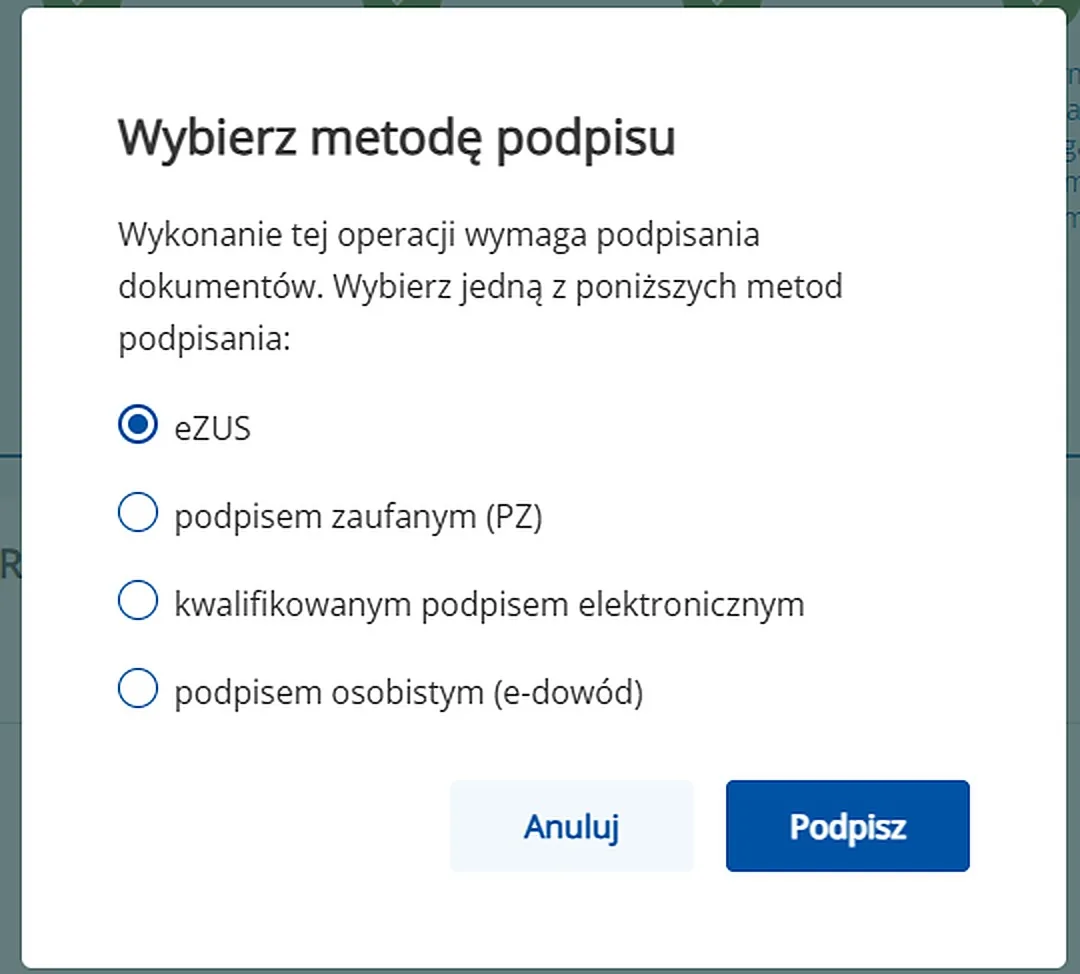
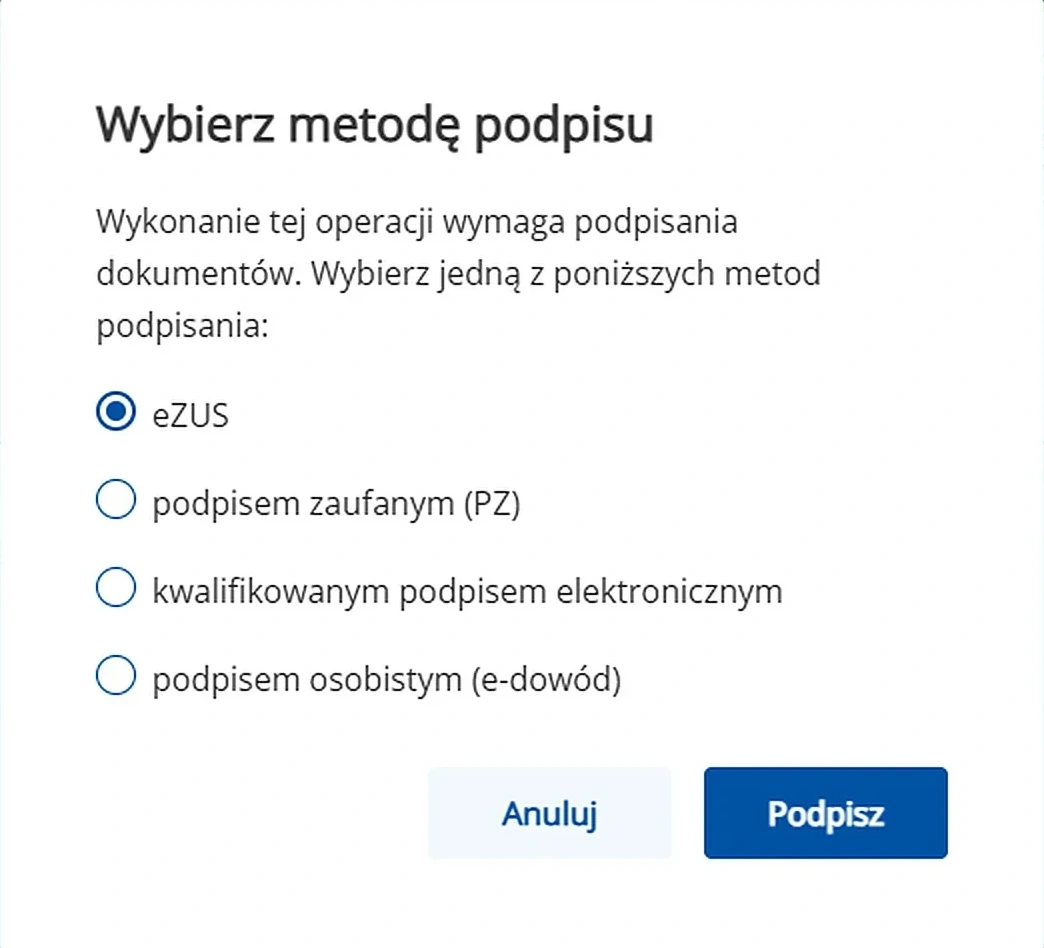
5.20: подпись – обрезана серая полоса слева, картинка по белому полю

diff --git a/zus-kanikuly/instrukcja.html b/zus-kanikuly/instrukcja.html
@@ -282,51 +282,51 @@ section.step,section.step.pre{scroll-margin-top:120px}
 
 <section class="step pre" id="login-ezus" data-id="login-ezus" data-r="first repeat">
   <div class="num" aria-hidden="true">0</div>
-  <div class="body"><h2>Вход в&nbsp;eZUS</h2><p class="screen">Экран в&nbsp;eZUS: <span lang="pl">«Zaloguj do PUE/eZUS»</span></p><p class="lead">Открываем <a href="https://www.zus.pl/" target="_blank" rel="noopener">zus.pl</a>&nbsp;– дальше все экраны внутри кабинета.</p><ol class="do"><li>На&nbsp;zus.pl нажать <span lang="pl">«Zaloguj do&nbsp;PUE/eZUS»</span>.</li><li>Откроется страница входа: слева поля <span lang="pl">«Login»</span> и&nbsp;<span lang="pl">«Hasło»</span>, справа QR через <span lang="pl">«Aplikacja mobilna ZUS»</span>, внизу ссылка <b>login.gov.pl</b>.</li><li>Через login.gov.pl выбрать способ: <span lang="pl">«Profil zaufany»</span>, банк, mObywatel или e-Dowód.</li></ol><figure class="shot"><img src="img/login-ezus-0.webp?v=5.11" alt="Вход в&nbsp;eZUS&nbsp;– экран 1" loading="lazy"><figcaption><b>Шаг 0.1:</b> форма <span lang="pl">«Zaloguj się do&nbsp;eZUS»</span>: слева поля <span lang="pl">«Login»</span> и&nbsp;<span lang="pl">«Hasło»</span>, справа&nbsp;– QR через <span lang="pl">«Aplikacja mobilna ZUS»</span> и&nbsp;ссылка <span lang="pl">«login.gov.pl»</span>.</figcaption></figure><figure class="shot"><img src="img/login-ezus-1.webp?v=5.11" alt="Вход в&nbsp;eZUS&nbsp;– экран 2" loading="lazy"><figcaption><b>Шаг 0.2:</b> выбор способа входа (gov.pl): <span lang="pl">«Profil zaufany»</span>, ниже mObywatel (<span lang="pl">«Polecany»</span>), банковский вход, <span lang="pl">«E-dowód»</span> и&nbsp;eID (для граждан ЕС со&nbsp;своим eID).</figcaption></figure><figure class="shot"><img src="img/wniosek-catalog-0.webp?v=5.11" alt="Каталог услуг eZUS с&nbsp;пунктом Wakacje składkowe" loading="lazy"><figcaption><b>Шаг 0.3:</b> в&nbsp;кабинете открыть <span lang="pl">«Katalog usług»</span> и&nbsp;найти <span lang="pl">«Wakacje składkowe»</span>&nbsp;– это и&nbsp;есть заявление RWS.</figcaption></figure></div>
+  <div class="body"><h2>Вход в&nbsp;eZUS</h2><p class="screen">Экран в&nbsp;eZUS: <span lang="pl">«Zaloguj do PUE/eZUS»</span></p><p class="lead">Открываем <a href="https://www.zus.pl/" target="_blank" rel="noopener">zus.pl</a>&nbsp;– дальше все экраны внутри кабинета.</p><ol class="do"><li>На&nbsp;zus.pl нажать <span lang="pl">«Zaloguj do&nbsp;PUE/eZUS»</span>.</li><li>Откроется страница входа: слева поля <span lang="pl">«Login»</span> и&nbsp;<span lang="pl">«Hasło»</span>, справа QR через <span lang="pl">«Aplikacja mobilna ZUS»</span>, внизу ссылка <b>login.gov.pl</b>.</li><li>Через login.gov.pl выбрать способ: <span lang="pl">«Profil zaufany»</span>, банк, mObywatel или e-Dowód.</li></ol><figure class="shot"><img src="img/login-ezus-0.webp?v=5.20" alt="Вход в&nbsp;eZUS&nbsp;– экран 1" loading="lazy"><figcaption><b>Шаг 0.1:</b> форма <span lang="pl">«Zaloguj się do&nbsp;eZUS»</span>: слева поля <span lang="pl">«Login»</span> и&nbsp;<span lang="pl">«Hasło»</span>, справа&nbsp;– QR через <span lang="pl">«Aplikacja mobilna ZUS»</span> и&nbsp;ссылка <span lang="pl">«login.gov.pl»</span>.</figcaption></figure><figure class="shot"><img src="img/login-ezus-1.webp?v=5.20" alt="Вход в&nbsp;eZUS&nbsp;– экран 2" loading="lazy"><figcaption><b>Шаг 0.2:</b> выбор способа входа (gov.pl): <span lang="pl">«Profil zaufany»</span>, ниже mObywatel (<span lang="pl">«Polecany»</span>), банковский вход, <span lang="pl">«E-dowód»</span> и&nbsp;eID (для граждан ЕС со&nbsp;своим eID).</figcaption></figure><figure class="shot"><img src="img/wniosek-catalog-0.webp?v=5.20" alt="Каталог услуг eZUS с&nbsp;пунктом Wakacje składkowe" loading="lazy"><figcaption><b>Шаг 0.3:</b> в&nbsp;кабинете открыть <span lang="pl">«Katalog usług»</span> и&nbsp;найти <span lang="pl">«Wakacje składkowe»</span>&nbsp;– это и&nbsp;есть заявление RWS.</figcaption></figure></div>
 </section><section class="step" id="wniosek" data-id="wniosek" data-r="first repeat">
   <div class="num" aria-hidden="true">1</div>
-  <div class="body"><h2>Общие данные и&nbsp;вид заявления</h2><p class="screen">Экран в&nbsp;eZUS: <span lang="pl">«Informacje ogólne i wybór rodzaju wniosku»</span></p><p class="lead">Здесь выбираем, что именно подаем&nbsp;– RWS.</p><ol class="do"><li>В&nbsp;каталоге открыть карточку <span lang="pl">«Wakacje składkowe»</span> и&nbsp;нажать <span lang="pl">«Przejdź do usługi»</span>.</li><li>Rodzaj wniosku: <span lang="pl">«Wniosek»</span>.</li><li>Нажать <span lang="pl">«Dalej»</span>.</li></ol><figure class="shot"><img src="img/wniosek-1.webp?v=5.11" alt="Карточка услуги Wakacje składkowe с&nbsp;кнопкой Przejdź do usługi" loading="lazy"><figcaption><b>Шаг 1.1:</b> карточка услуги&nbsp;– здесь прямо написано, что подаём: wzór <b>RWS</b> (wniosek o zwolnienie z&nbsp;obowiązku opłacenia składek za wskazany miesiąc). Жмём <span lang="pl">«Przejdź do usługi»</span>.</figcaption></figure><figure class="shot"><img src="img/wniosek-0.webp?v=5.11" alt="Форма заявления: выбор вида заявления&nbsp;– Rodzaj wniosku" loading="lazy"><figcaption><b>Шаг 1.2:</b> уже в&nbsp;форме&nbsp;– <span lang="pl">«Rodzaj wniosku»</span>: выбираем <span lang="pl">«Wniosek»</span> и&nbsp;жмем <span lang="pl">«Dalej»</span> (год здесь не&nbsp;выбирается).</figcaption></figure></div>
+  <div class="body"><h2>Общие данные и&nbsp;вид заявления</h2><p class="screen">Экран в&nbsp;eZUS: <span lang="pl">«Informacje ogólne i wybór rodzaju wniosku»</span></p><p class="lead">Здесь выбираем, что именно подаем&nbsp;– RWS.</p><ol class="do"><li>В&nbsp;каталоге открыть карточку <span lang="pl">«Wakacje składkowe»</span> и&nbsp;нажать <span lang="pl">«Przejdź do usługi»</span>.</li><li>Rodzaj wniosku: <span lang="pl">«Wniosek»</span>.</li><li>Нажать <span lang="pl">«Dalej»</span>.</li></ol><figure class="shot"><img src="img/wniosek-1.webp?v=5.20" alt="Карточка услуги Wakacje składkowe с&nbsp;кнопкой Przejdź do usługi" loading="lazy"><figcaption><b>Шаг 1.1:</b> карточка услуги&nbsp;– здесь прямо написано, что подаём: wzór <b>RWS</b> (wniosek o zwolnienie z&nbsp;obowiązku opłacenia składek za wskazany miesiąc). Жмём <span lang="pl">«Przejdź do usługi»</span>.</figcaption></figure><figure class="shot"><img src="img/wniosek-0.webp?v=5.20" alt="Форма заявления: выбор вида заявления&nbsp;– Rodzaj wniosku" loading="lazy"><figcaption><b>Шаг 1.2:</b> уже в&nbsp;форме&nbsp;– <span lang="pl">«Rodzaj wniosku»</span>: выбираем <span lang="pl">«Wniosek»</span> и&nbsp;жмем <span lang="pl">«Dalej»</span> (год здесь не&nbsp;выбирается).</figcaption></figure></div>
 </section><section class="step" id="platnik" data-id="platnik" data-r="first repeat">
   <div class="num" aria-hidden="true">2</div>
-  <div class="body"><h2>Данные плательщика</h2><p class="screen">Экран в&nbsp;eZUS: <span lang="pl">«Dane płatnika»</span></p><p class="lead">Данные подставятся сами&nbsp;– их нужно только сверить.</p><ol class="do"><li>Сверить NIP, PESEL, имя и&nbsp;фамилию&nbsp;– или ввести NIP, имя либо фамилию вручную.</li><li>Телефон&nbsp;– необязательное поле: можно оставить пустым.</li><li>Нажать <span lang="pl">«Dalej»</span>.</li></ol><figure class="shot"><img src="img/platnik-0.webp?v=5.11" alt="Данные плательщика&nbsp;– экран 1" loading="lazy"><figcaption><b>Шаг 2:</b> NIP, PESEL, имя и&nbsp;фамилия подставятся сами&nbsp;– сверяем с&nbsp;документами.</figcaption></figure></div>
+  <div class="body"><h2>Данные плательщика</h2><p class="screen">Экран в&nbsp;eZUS: <span lang="pl">«Dane płatnika»</span></p><p class="lead">Данные подставятся сами&nbsp;– их нужно только сверить.</p><ol class="do"><li>Сверить NIP, PESEL, имя и&nbsp;фамилию&nbsp;– или ввести NIP, имя либо фамилию вручную.</li><li>Телефон&nbsp;– необязательное поле: можно оставить пустым.</li><li>Нажать <span lang="pl">«Dalej»</span>.</li></ol><figure class="shot"><img src="img/platnik-0.webp?v=5.20" alt="Данные плательщика&nbsp;– экран 1" loading="lazy"><figcaption><b>Шаг 2:</b> NIP, PESEL, имя и&nbsp;фамилия подставятся сами&nbsp;– сверяем с&nbsp;документами.</figcaption></figure></div>
 </section><section class="step" id="miesiac" data-id="miesiac" data-r="first repeat">
   <div class="num" aria-hidden="true">3</div>
-  <div class="body"><h2>Месяц заявления</h2><p class="screen">Экран в&nbsp;eZUS: <span lang="pl">«Treść wniosku»</span></p><p class="lead">Поле месяца уже заполнено&nbsp;– сверяем с&nbsp;тем месяцем, за&nbsp;который просим каникулы.</p><ol class="do"><li>Сверить месяц и&nbsp;год.</li><li>Нажать <span lang="pl">«Dalej»</span>.</li></ol><figure class="shot"><img src="img/miesiac-0.webp?v=5.11" alt="Месяц заявления&nbsp;– экран 1" loading="lazy"><figcaption><b>Шаг 3:</b> поле месяца уже заполнено&nbsp;– сверяем месяц и&nbsp;год, жмем <span lang="pl">«Dalej»</span>.</figcaption></figure></div>
+  <div class="body"><h2>Месяц заявления</h2><p class="screen">Экран в&nbsp;eZUS: <span lang="pl">«Treść wniosku»</span></p><p class="lead">Поле месяца уже заполнено&nbsp;– сверяем с&nbsp;тем месяцем, за&nbsp;который просим каникулы.</p><ol class="do"><li>Сверить месяц и&nbsp;год.</li><li>Нажать <span lang="pl">«Dalej»</span>.</li></ol><figure class="shot"><img src="img/miesiac-0.webp?v=5.20" alt="Месяц заявления&nbsp;– экран 1" loading="lazy"><figcaption><b>Шаг 3:</b> поле месяца уже заполнено&nbsp;– сверяем месяц и&nbsp;год, жмем <span lang="pl">«Dalej»</span>.</figcaption></figure></div>
 </section><section class="step" id="oswiadczenia" data-id="oswiadczenia" data-r="first repeat">
   <div class="num" aria-hidden="true">4</div>
-  <div class="body"><h2>Заявления-подтверждения</h2><p class="screen">Экран в&nbsp;eZUS: <span lang="pl">«Oświadczenia»</span></p><p class="lead">Три утверждения. Пункты&nbsp;1 и&nbsp;2&nbsp;– только текст, выбирать там нечего: это заявления о&nbsp;доходе и&nbsp;о&nbsp;работе на&nbsp;бывшего работодателя. Выбор есть только в&nbsp;пункте&nbsp;3&nbsp;– про помощь de&nbsp;minimis.</p><ol class="do"><li>Пункт&nbsp;3, <span lang="pl">«W&nbsp;okresie minionych 3&nbsp;lat»</span>: отметить, пользовались&nbsp;ли Вы помощью de&nbsp;minimis.</li><li>Если <span lang="pl">«korzystałem»</span>&nbsp;– ниже в&nbsp;блоке подтверждения выбрать <span lang="pl">«oświadczenie»</span> и&nbsp;вписать общую сумму помощи в&nbsp;евро.</li><li>Нажать <span lang="pl">«Dalej»</span>.</li></ol><div class="note"><p><b>Откуда брать сумму в евро.</b> Это вся помощь de&nbsp;minimis, которую Вы получили за&nbsp;последние 3&nbsp;года, – она видна в&nbsp;отчёте SUDOP.</p><p>Поиск по&nbsp;NIP: <a href="https://sudop.uokik.gov.pl/search/aidBeneficiary" target="_blank" rel="noopener">sudop.uokik.gov.pl/search/aidBeneficiary</a> – ввести свой NIP, нажать <span lang="pl">«Pobierz nazwę»</span>, отметить <span lang="pl">«tylko de&nbsp;minimis»</span> и&nbsp;период 3&nbsp;года, затем <span lang="pl">«Wyszukaj według wybranych kryteriów»</span>. В&nbsp;отчёте берём итоговую сумму в&nbsp;евро.</p><p>Пошагово со&nbsp;скриншотами – раздел <a href="#sudop-1">«Справка из&nbsp;SUDOP»</a> внизу страницы.</p></div><figure class="shot"><img src="img/oswiadczenia-0.webp?v=5.11" alt="Заявления-подтверждения&nbsp;– экран 1" loading="lazy"><figcaption><b>Шаг 4:</b> пункты 1 и&nbsp;2&nbsp;– текст без выбора; в&nbsp;пункте 3 отмечаем помощь de&nbsp;minimis и&nbsp;вписываем её сумму в&nbsp;евро.</figcaption></figure></div>
+  <div class="body"><h2>Заявления-подтверждения</h2><p class="screen">Экран в&nbsp;eZUS: <span lang="pl">«Oświadczenia»</span></p><p class="lead">Три утверждения. Пункты&nbsp;1 и&nbsp;2&nbsp;– только текст, выбирать там нечего: это заявления о&nbsp;доходе и&nbsp;о&nbsp;работе на&nbsp;бывшего работодателя. Выбор есть только в&nbsp;пункте&nbsp;3&nbsp;– про помощь de&nbsp;minimis.</p><ol class="do"><li>Пункт&nbsp;3, <span lang="pl">«W&nbsp;okresie minionych 3&nbsp;lat»</span>: отметить, пользовались&nbsp;ли Вы помощью de&nbsp;minimis.</li><li>Если <span lang="pl">«korzystałem»</span>&nbsp;– ниже в&nbsp;блоке подтверждения выбрать <span lang="pl">«oświadczenie»</span> и&nbsp;вписать общую сумму помощи в&nbsp;евро.</li><li>Нажать <span lang="pl">«Dalej»</span>.</li></ol><div class="note"><p><b>Откуда брать сумму в евро.</b> Это вся помощь de&nbsp;minimis, которую Вы получили за&nbsp;последние 3&nbsp;года, – она видна в&nbsp;отчёте SUDOP.</p><p>Поиск по&nbsp;NIP: <a href="https://sudop.uokik.gov.pl/search/aidBeneficiary" target="_blank" rel="noopener">sudop.uokik.gov.pl/search/aidBeneficiary</a> – ввести свой NIP, нажать <span lang="pl">«Pobierz nazwę»</span>, отметить <span lang="pl">«tylko de&nbsp;minimis»</span> и&nbsp;период 3&nbsp;года, затем <span lang="pl">«Wyszukaj według wybranych kryteriów»</span>. В&nbsp;отчёте берём итоговую сумму в&nbsp;евро.</p><p>Пошагово со&nbsp;скриншотами – раздел <a href="#sudop-1">«Справка из&nbsp;SUDOP»</a> внизу страницы.</p></div><figure class="shot"><img src="img/oswiadczenia-0.webp?v=5.20" alt="Заявления-подтверждения&nbsp;– экран 1" loading="lazy"><figcaption><b>Шаг 4:</b> пункты 1 и&nbsp;2&nbsp;– текст без выбора; в&nbsp;пункте 3 отмечаем помощь de&nbsp;minimis и&nbsp;вписываем её сумму в&nbsp;евро.</figcaption></figure></div>
 </section><section class="step" id="dm1" data-id="dm1" data-r="first repeat">
   <div class="num" aria-hidden="true">5</div>
-  <div class="body"><h2>de minimis, часть 1: размер субъекта и&nbsp;PKD</h2><p class="screen">Экран в&nbsp;eZUS: <span lang="pl">«Wielkość podmiotu i klasa działalności»</span></p><p class="lead">Здесь только размер субъекта и&nbsp;код деятельности.</p><ol class="do"><li>Wielkość podmiotu: <span lang="pl">«mikroprzedsiębiorca»</span>, если у&nbsp;вас микропредприятие.</li></ol><div class="note" style="border-left:3px solid #C69B3C"><p><b>Откуда сумма de&nbsp;minimis:</b> её берут из&nbsp;справки SUDOP&nbsp;– пошагово это раздел <a href="#sudop-1">Д1</a> ниже. Проверить свою помощь напрямую: <a href="https://sudop.uokik.gov.pl/search/aidBeneficiary" target="_blank" rel="noopener">sudop.uokik.gov.pl/search/aidBeneficiary</a>.</p></div><ol class="do" start="2"><li>Klasa działalności: выбрать год и&nbsp;вписать код PKD без точек&nbsp;– например 6210B. Если помощь de&nbsp;minimis уже получали, здесь&nbsp;же вписываем сумму из&nbsp;справки&nbsp;– в&nbsp;евро, ровно как в&nbsp;документе (например, 200,47).</li><li><span lang="pl">«Dalej»</span>.</li></ol><figure class="shot"><img src="img/dm1-0.webp?v=5.11" alt="de minimis, часть 1: размер субъекта и&nbsp;PKD&nbsp;– экран 1" loading="lazy"><figcaption><b>Шаг 5.1:</b> <span lang="pl">«Wielkość podmiotu»</span>&nbsp;– выбираем <span lang="pl">«mikroprzedsiębiorca»</span>.</figcaption></figure><figure class="shot"><img src="img/dm1-1.webp?v=5.11" alt="de minimis, часть 1: размер субъекта и&nbsp;PKD&nbsp;– экран 2" loading="lazy"><figcaption><b>Шаг 5.2:</b> <span lang="pl">«Klasa działalności»</span>&nbsp;– год и&nbsp;код PKD без точек, например 6210B.</figcaption></figure></div>
+  <div class="body"><h2>de minimis, часть 1: размер субъекта и&nbsp;PKD</h2><p class="screen">Экран в&nbsp;eZUS: <span lang="pl">«Wielkość podmiotu i klasa działalności»</span></p><p class="lead">Здесь только размер субъекта и&nbsp;код деятельности.</p><ol class="do"><li>Wielkość podmiotu: <span lang="pl">«mikroprzedsiębiorca»</span>, если у&nbsp;вас микропредприятие.</li></ol><div class="note" style="border-left:3px solid #C69B3C"><p><b>Откуда сумма de&nbsp;minimis:</b> её берут из&nbsp;справки SUDOP&nbsp;– пошагово это раздел <a href="#sudop-1">Д1</a> ниже. Проверить свою помощь напрямую: <a href="https://sudop.uokik.gov.pl/search/aidBeneficiary" target="_blank" rel="noopener">sudop.uokik.gov.pl/search/aidBeneficiary</a>.</p></div><ol class="do" start="2"><li>Klasa działalności: выбрать год и&nbsp;вписать код PKD без точек&nbsp;– например 6210B. Если помощь de&nbsp;minimis уже получали, здесь&nbsp;же вписываем сумму из&nbsp;справки&nbsp;– в&nbsp;евро, ровно как в&nbsp;документе (например, 200,47).</li><li><span lang="pl">«Dalej»</span>.</li></ol><figure class="shot"><img src="img/dm1-0.webp?v=5.20" alt="de minimis, часть 1: размер субъекта и&nbsp;PKD&nbsp;– экран 1" loading="lazy"><figcaption><b>Шаг 5.1:</b> <span lang="pl">«Wielkość podmiotu»</span>&nbsp;– выбираем <span lang="pl">«mikroprzedsiębiorca»</span>.</figcaption></figure><figure class="shot"><img src="img/dm1-1.webp?v=5.20" alt="de minimis, часть 1: размер субъекта и&nbsp;PKD&nbsp;– экран 2" loading="lazy"><figcaption><b>Шаг 5.2:</b> <span lang="pl">«Klasa działalności»</span>&nbsp;– год и&nbsp;код PKD без точек, например 6210B.</figcaption></figure></div>
 </section><section class="step" id="dm2" data-id="dm2" data-r="first repeat">
   <div class="num" aria-hidden="true">6</div>
-  <div class="body"><h2>de minimis, часть 2: связи с&nbsp;другими предпринимателями</h2><p class="screen">Экран в&nbsp;eZUS: <span lang="pl">«Powiązania z innymi przedsiębiorcami»</span></p><p class="lead">Существует ли связь между субъектом и&nbsp;другими предпринимателями, заключающаяся в&nbsp;том, что:</p><ol class="do"><li><span lang="pl">a. jeden przedsiębiorca posiada większość praw głosu akcjonariuszy lub wspólników drugiego przedsiębiorcy</span>&nbsp;– один предприниматель имеет большинство прав голоса акционеров или участников другого предпринимателя.</li><li><span lang="pl">b. jeden przedsiębiorca ma prawo wyznaczyć lub odwołać większość członków organu zarządzającego lub nadzorczego innego przedsiębiorcy</span>&nbsp;– один предприниматель имеет право назначить или отозвать большинство членов руководящего или надзорного органа другого предпринимателя.</li><li><span lang="pl">c. jeden przedsiębiorca ma prawo wywierać dominujący wpływ na innego przedsiębiorcę zgodnie z umową lub zgodnie z jego dokumentami założycielskimi</span>&nbsp;– один предприниматель имеет право оказывать доминирующее влияние на другого предпринимателя в соответствии с договором с этим предпринимателем или в соответствии с его учредительными документами.</li><li><span lang="pl">d. jeden przedsiębiorca, będąc akcjonariuszem lub wspólnikiem innego przedsiębiorcy lub jego członkiem, zgodnie z porozumieniem z innymi akcjonariuszami, wspólnikami lub członkami, samodzielnie kontroluje większość praw głosu</span>&nbsp;– один предприниматель, который является акционером, партнером или участником другого предпринимателя, в соответствии с соглашением с другими акционерами, партнерами или участниками этого предпринимателя самостоятельно контролирует большинство прав голоса у этого предпринимателя.</li><li><span lang="pl">e. przedsiębiorca pozostaje w jakimkolwiek ze stosunków opisanych powyżej poprzez jednego innego przedsiębiorcę lub kilku innych przedsiębiorców</span>&nbsp;– предприниматель остается в любых отношениях, описанных выше, через одного иного предпринимателя или нескольких других предпринимателей.</li><li>Выберите <span lang="pl">«NIE»</span> или <span lang="pl">«TAK»</span> в&nbsp;каждом пункте a–e&nbsp;– в&nbsp;зависимости от&nbsp;Вашей ситуации (если связей нет, везде <span lang="pl">«NIE»</span>). Затем нажимаем <span lang="pl">«Dalej»</span>.</li></ol><figure class="shot"><img src="img/dm2-0.webp?v=5.11" alt="de minimis, часть 2: связи с&nbsp;другими предпринимателями&nbsp;– экран 1" loading="lazy"><figcaption><b>Шаг 6:</b> <span lang="pl">«Powiązania z innymi przedsiębiorcami»</span>&nbsp;– пять пунктов a–e, на&nbsp;каждый ответ только <span lang="pl">«TAK»</span> или <span lang="pl">«NIE»</span>.</figcaption></figure></div>
+  <div class="body"><h2>de minimis, часть 2: связи с&nbsp;другими предпринимателями</h2><p class="screen">Экран в&nbsp;eZUS: <span lang="pl">«Powiązania z innymi przedsiębiorcami»</span></p><p class="lead">Существует ли связь между субъектом и&nbsp;другими предпринимателями, заключающаяся в&nbsp;том, что:</p><ol class="do"><li><span lang="pl">a. jeden przedsiębiorca posiada większość praw głosu akcjonariuszy lub wspólników drugiego przedsiębiorcy</span>&nbsp;– один предприниматель имеет большинство прав голоса акционеров или участников другого предпринимателя.</li><li><span lang="pl">b. jeden przedsiębiorca ma prawo wyznaczyć lub odwołać większość członków organu zarządzającego lub nadzorczego innego przedsiębiorcy</span>&nbsp;– один предприниматель имеет право назначить или отозвать большинство членов руководящего или надзорного органа другого предпринимателя.</li><li><span lang="pl">c. jeden przedsiębiorca ma prawo wywierać dominujący wpływ na innego przedsiębiorcę zgodnie z umową lub zgodnie z jego dokumentami założycielskimi</span>&nbsp;– один предприниматель имеет право оказывать доминирующее влияние на другого предпринимателя в соответствии с договором с этим предпринимателем или в соответствии с его учредительными документами.</li><li><span lang="pl">d. jeden przedsiębiorca, będąc akcjonariuszem lub wspólnikiem innego przedsiębiorcy lub jego członkiem, zgodnie z porozumieniem z innymi akcjonariuszami, wspólnikami lub członkami, samodzielnie kontroluje większość praw głosu</span>&nbsp;– один предприниматель, который является акционером, партнером или участником другого предпринимателя, в соответствии с соглашением с другими акционерами, партнерами или участниками этого предпринимателя самостоятельно контролирует большинство прав голоса у этого предпринимателя.</li><li><span lang="pl">e. przedsiębiorca pozostaje w jakimkolwiek ze stosunków opisanych powyżej poprzez jednego innego przedsiębiorcę lub kilku innych przedsiębiorców</span>&nbsp;– предприниматель остается в любых отношениях, описанных выше, через одного иного предпринимателя или нескольких других предпринимателей.</li><li>Выберите <span lang="pl">«NIE»</span> или <span lang="pl">«TAK»</span> в&nbsp;каждом пункте a–e&nbsp;– в&nbsp;зависимости от&nbsp;Вашей ситуации (если связей нет, везде <span lang="pl">«NIE»</span>). Затем нажимаем <span lang="pl">«Dalej»</span>.</li></ol><figure class="shot"><img src="img/dm2-0.webp?v=5.20" alt="de minimis, часть 2: связи с&nbsp;другими предпринимателями&nbsp;– экран 1" loading="lazy"><figcaption><b>Шаг 6:</b> <span lang="pl">«Powiązania z innymi przedsiębiorcami»</span>&nbsp;– пять пунктов a–e, на&nbsp;каждый ответ только <span lang="pl">«TAK»</span> или <span lang="pl">«NIE»</span>.</figcaption></figure></div>
 </section><section class="step" id="dm3" data-id="dm3" data-r="first repeat">
   <div class="num" aria-hidden="true">7</div>
-  <div class="body"><h2>de minimis, часть 3: как возникла фирма</h2><p class="screen">Экран в&nbsp;eZUS: <span lang="pl">«Informacje o powstaniu podmiotu»</span></p><p class="lead">Четыре вопроса о&nbsp;том, как появилась ваша фирма.</p><ol class="do"><li><span lang="pl">a. powstał wskutek połączenia się innych przedsiębiorców</span>&nbsp;– появилась в&nbsp;результате слияния.</li><li><span lang="pl">b. przejął innego przedsiębiorcę</span>&nbsp;– принятие на&nbsp;(включение в&nbsp;) себя другого предпринимателя.</li><li><span lang="pl">c. powstał w wyniku podziału innego przedsiębiorcy</span>&nbsp;– возник в&nbsp;результате раздела.</li><li><span lang="pl">d. powstał w wyniku przekształcenia przedsiębiorcy</span>&nbsp;– возник в&nbsp;результате преобразования.</li><li>Выберите <span lang="pl">«NIE»</span> или <span lang="pl">«TAK»</span> – в&nbsp;зависимости от&nbsp;Вашей ситуации. Затем нажимаем <span lang="pl">«Dalej»</span>. У&nbsp;большинства здесь <span lang="pl">«NIE»</span>.</li></ol><figure class="shot"><img src="img/dm3-0.webp?v=5.11" alt="de minimis, часть 3: как возникла фирма&nbsp;– экран 1" loading="lazy"><figcaption><b>Шаг 7:</b> <span lang="pl">«Informacje o powstaniu podmiotu»</span>&nbsp;– как возникла фирма, четыре пункта a–d.</figcaption></figure></div>
+  <div class="body"><h2>de minimis, часть 3: как возникла фирма</h2><p class="screen">Экран в&nbsp;eZUS: <span lang="pl">«Informacje o powstaniu podmiotu»</span></p><p class="lead">Четыре вопроса о&nbsp;том, как появилась ваша фирма.</p><ol class="do"><li><span lang="pl">a. powstał wskutek połączenia się innych przedsiębiorców</span>&nbsp;– появилась в&nbsp;результате слияния.</li><li><span lang="pl">b. przejął innego przedsiębiorcę</span>&nbsp;– принятие на&nbsp;(включение в&nbsp;) себя другого предпринимателя.</li><li><span lang="pl">c. powstał w wyniku podziału innego przedsiębiorcy</span>&nbsp;– возник в&nbsp;результате раздела.</li><li><span lang="pl">d. powstał w wyniku przekształcenia przedsiębiorcy</span>&nbsp;– возник в&nbsp;результате преобразования.</li><li>Выберите <span lang="pl">«NIE»</span> или <span lang="pl">«TAK»</span> – в&nbsp;зависимости от&nbsp;Вашей ситуации. Затем нажимаем <span lang="pl">«Dalej»</span>. У&nbsp;большинства здесь <span lang="pl">«NIE»</span>.</li></ol><figure class="shot"><img src="img/dm3-0.webp?v=5.20" alt="de minimis, часть 3: как возникла фирма&nbsp;– экран 1" loading="lazy"><figcaption><b>Шаг 7:</b> <span lang="pl">«Informacje o powstaniu podmiotu»</span>&nbsp;– как возникла фирма, четыре пункта a–d.</figcaption></figure></div>
 </section><section class="step" id="dm4" data-id="dm4" data-r="first repeat">
   <div class="num" aria-hidden="true">8</div>
-  <div class="body"><h2>de minimis, часть 4: секторы деятельности</h2><p class="screen">Экран в&nbsp;eZUS: <span lang="pl">«Działalność gospodarcza»</span>&nbsp;– хозяйственная деятельность</p><p class="lead">Осуществляет ли предприятие предпринимательскую деятельность:</p><ol class="do"><li><span lang="pl">a. w sektorze produkcji podstawowej produktów rybołówstwa i akwakultury</span>&nbsp;– в секторе производства основной продукции рыболовства и аквакультуры.</li><li><span lang="pl">b. w dziedzinie produkcji podstawowej produktów rolnych wymienionych w załączniku I do Traktatu o funkcjonowaniu Unii Europejskiej</span>&nbsp;– в области производства основной сельскохозяйственной продукции, перечисленной в&nbsp;приложении №1 к&nbsp;Договору о&nbsp;функционировании Европейского Союза (Traktat o&nbsp;funkcjonowaniu Unii Europejskiej).</li><li><span lang="pl">c. w dziedzinie przetwarzania i wprowadzania do obrotu produktów rolnych wymienionych w załączniku I do Traktatu o funkcjonowaniu Unii Europejskiej</span>&nbsp;– в области переработки и&nbsp;сбыта сельскохозяйственной продукции, перечисленной в&nbsp;приложении №1 к&nbsp;Договору о&nbsp;функционировании Европейского Союза (Traktat o&nbsp;funkcjonowaniu Unii Europejskiej).</li><li><span lang="pl">d. w dziedzinie przetwarzania i wprowadzania do obrotu produktów rybołówstwa i akwakultury</span>&nbsp;– в области обработки и&nbsp;сбыта продуктов рыболовства и&nbsp;аквакультуры.</li><li>Выберите <span lang="pl">«NIE»</span> или <span lang="pl">«TAK»</span> – в&nbsp;зависимости от&nbsp;Вашей ситуации. Затем нажимаем <span lang="pl">«Dalej»</span>. У&nbsp;большинства здесь <span lang="pl">«NIE»</span>.</li></ol><figure class="shot"><img src="img/dm4-0.webp?v=5.11" alt="de minimis, часть 4: секторы деятельности&nbsp;– экран 1" loading="lazy"><figcaption><b>Шаг 8:</b> <span lang="pl">«Działalność gospodarcza»</span>&nbsp;– четыре сектора a–d, на&nbsp;каждый <span lang="pl">«TAK»</span> или <span lang="pl">«NIE»</span>.</figcaption></figure></div>
+  <div class="body"><h2>de minimis, часть 4: секторы деятельности</h2><p class="screen">Экран в&nbsp;eZUS: <span lang="pl">«Działalność gospodarcza»</span>&nbsp;– хозяйственная деятельность</p><p class="lead">Осуществляет ли предприятие предпринимательскую деятельность:</p><ol class="do"><li><span lang="pl">a. w sektorze produkcji podstawowej produktów rybołówstwa i akwakultury</span>&nbsp;– в секторе производства основной продукции рыболовства и аквакультуры.</li><li><span lang="pl">b. w dziedzinie produkcji podstawowej produktów rolnych wymienionych w załączniku I do Traktatu o funkcjonowaniu Unii Europejskiej</span>&nbsp;– в области производства основной сельскохозяйственной продукции, перечисленной в&nbsp;приложении №1 к&nbsp;Договору о&nbsp;функционировании Европейского Союза (Traktat o&nbsp;funkcjonowaniu Unii Europejskiej).</li><li><span lang="pl">c. w dziedzinie przetwarzania i wprowadzania do obrotu produktów rolnych wymienionych w załączniku I do Traktatu o funkcjonowaniu Unii Europejskiej</span>&nbsp;– в области переработки и&nbsp;сбыта сельскохозяйственной продукции, перечисленной в&nbsp;приложении №1 к&nbsp;Договору о&nbsp;функционировании Европейского Союза (Traktat o&nbsp;funkcjonowaniu Unii Europejskiej).</li><li><span lang="pl">d. w dziedzinie przetwarzania i wprowadzania do obrotu produktów rybołówstwa i akwakultury</span>&nbsp;– в области обработки и&nbsp;сбыта продуктов рыболовства и&nbsp;аквакультуры.</li><li>Выберите <span lang="pl">«NIE»</span> или <span lang="pl">«TAK»</span> – в&nbsp;зависимости от&nbsp;Вашей ситуации. Затем нажимаем <span lang="pl">«Dalej»</span>. У&nbsp;большинства здесь <span lang="pl">«NIE»</span>.</li></ol><figure class="shot"><img src="img/dm4-0.webp?v=5.20" alt="de minimis, часть 4: секторы деятельности&nbsp;– экран 1" loading="lazy"><figcaption><b>Шаг 8:</b> <span lang="pl">«Działalność gospodarcza»</span>&nbsp;– четыре сектора a–d, на&nbsp;каждый <span lang="pl">«TAK»</span> или <span lang="pl">«NIE»</span>.</figcaption></figure></div>
 </section><section class="step" <section class="step" id="zalaczniki" data-id="zalaczniki" data-r="repeat">
   <div class="num" aria-hidden="true">9</div>
-  <div class="body"><h2>Приложения: засвядчэння, если выбирали их</h2><p class="screen">Экран в&nbsp;eZUS: <span lang="pl">«Załączniki»</span></p><p class="lead">Что прикладываем&nbsp;– зависит от&nbsp;шага&nbsp;4. Если там стояло <span lang="pl">«oświadczenie»</span>&nbsp;– список оставляем пустым и&nbsp;жмём <span lang="pl">«Dalej»</span>. Если <span lang="pl">«zaświadczenia»</span>&nbsp;– прикладываем сами засвядчэння: по&nbsp;файлу на&nbsp;каждую помощь de&nbsp;minimis. Отчёт из&nbsp;SUDOP сюда не&nbsp;годится: это только список сумм, а&nbsp;ZUS нужны засвядчэння от&nbsp;органов, которые давали помощь.</p><ol class="do"><li>На&nbsp;шаге&nbsp;4 выбрали <span lang="pl">«oświadczenie»</span>&nbsp;– ничего не&nbsp;загружаем, сразу <span lang="pl">«Dalej»</span>.</li><li>Выбрали <span lang="pl">«zaświadczenia»</span>&nbsp;– нажать на&nbsp;пунктирную зону загрузки.</li><li>Выбрать файл засвядчэння и&nbsp;нажать <span lang="pl">«Otwórz»</span>; повторить для каждой помощи.</li><li>Проверить имена файлов в&nbsp;списке и&nbsp;нажать <span lang="pl">«Dalej»</span>.</li></ol><div class="note" style="border-left:3px solid #C69B3C"><p><b>Где взять засвядчэння:</b> у&nbsp;органа, который дал помощь&nbsp;– urząd miasta или gminy, powiatowy urząd pracy и&nbsp;другие. Если бумаги под&nbsp;рукой нет, запросите дубликат в&nbsp;том же органе: отчёт SUDOP его не&nbsp;заменяет, там только суммы&nbsp;– они нужны, чтобы заполнить шаг&nbsp;5. Лимит eZUS&nbsp;– около 1&nbsp;МБ на&nbsp;файл и&nbsp;5&nbsp;МБ на&nbsp;всё заявление.</p></div><figure class="shot"><img src="img/zalaczniki-0.webp?v=5.11" alt="Приложения: зона загрузки файлов" loading="lazy"><figcaption><b>Шаг 9.1:</b> пунктирная зона загрузки&nbsp;– сюда добавляем файлы засвядчэнняў.</figcaption></figure><figure class="shot"><img src="img/zalaczniki-1.webp?v=5.11" alt="Приложения: выбор файла" loading="lazy"><figcaption><b>Шаг 9.2:</b> в&nbsp;диалоге открытия файла&nbsp;– папка <span lang="pl">«Pobrane»</span>, в&nbsp;ней файл засвядчэння; выбираем и&nbsp;подтверждаем.</figcaption></figure></div>
+  <div class="body"><h2>Приложения: засвядчэння, если выбирали их</h2><p class="screen">Экран в&nbsp;eZUS: <span lang="pl">«Załączniki»</span></p><p class="lead">Что прикладываем&nbsp;– зависит от&nbsp;шага&nbsp;4. Если там стояло <span lang="pl">«oświadczenie»</span>&nbsp;– список оставляем пустым и&nbsp;жмём <span lang="pl">«Dalej»</span>. Если <span lang="pl">«zaświadczenia»</span>&nbsp;– прикладываем сами засвядчэння: по&nbsp;файлу на&nbsp;каждую помощь de&nbsp;minimis. Отчёт из&nbsp;SUDOP сюда не&nbsp;годится: это только список сумм, а&nbsp;ZUS нужны засвядчэння от&nbsp;органов, которые давали помощь.</p><ol class="do"><li>На&nbsp;шаге&nbsp;4 выбрали <span lang="pl">«oświadczenie»</span>&nbsp;– ничего не&nbsp;загружаем, сразу <span lang="pl">«Dalej»</span>.</li><li>Выбрали <span lang="pl">«zaświadczenia»</span>&nbsp;– нажать на&nbsp;пунктирную зону загрузки.</li><li>Выбрать файл засвядчэння и&nbsp;нажать <span lang="pl">«Otwórz»</span>; повторить для каждой помощи.</li><li>Проверить имена файлов в&nbsp;списке и&nbsp;нажать <span lang="pl">«Dalej»</span>.</li></ol><div class="note" style="border-left:3px solid #C69B3C"><p><b>Где взять засвядчэння:</b> у&nbsp;органа, который дал помощь&nbsp;– urząd miasta или gminy, powiatowy urząd pracy и&nbsp;другие. Если бумаги под&nbsp;рукой нет, запросите дубликат в&nbsp;том же органе: отчёт SUDOP его не&nbsp;заменяет, там только суммы&nbsp;– они нужны, чтобы заполнить шаг&nbsp;5. Лимит eZUS&nbsp;– около 1&nbsp;МБ на&nbsp;файл и&nbsp;5&nbsp;МБ на&nbsp;всё заявление.</p></div><figure class="shot"><img src="img/zalaczniki-0.webp?v=5.20" alt="Приложения: зона загрузки файлов" loading="lazy"><figcaption><b>Шаг 9.1:</b> пунктирная зона загрузки&nbsp;– сюда добавляем файлы засвядчэнняў.</figcaption></figure><figure class="shot"><img src="img/zalaczniki-1.webp?v=5.20" alt="Приложения: выбор файла" loading="lazy"><figcaption><b>Шаг 9.2:</b> в&nbsp;диалоге открытия файла&nbsp;– папка <span lang="pl">«Pobrane»</span>, в&nbsp;ней файл засвядчэння; выбираем и&nbsp;подтверждаем.</figcaption></figure></div>
 </section><section class="step" id="zalaczniki-b" data-id="zalaczniki-b" data-r="first">
   <div class="num" aria-hidden="true">9</div>
-  <div class="body"><h2>Приложения: ничего не&nbsp;прикрепляем</h2><p class="screen">Экран в&nbsp;eZUS: <span lang="pl">«Załączniki»</span> – раздел приложений</p><p class="lead">Первая подача: помощь de&nbsp;minimis раньше не&nbsp;получали, значит прикладывать нечего. Пустой список файлов&nbsp;– это норма, а&nbsp;не&nbsp;ошибка.</p><ol class="do"><li>В&nbsp;разделе <span lang="pl">«Załączniki»</span> ничего не&nbsp;выбираем и&nbsp;не&nbsp;загружаем.</li><li>Проверяем, что поле файла осталось пустым.</li><li>Нажимаем <span lang="pl">«Dalej»</span>&nbsp;– раздел пропускается.</li><li>Если система напишет, что файл обязателен,&nbsp;– прикладываем справку SUDOP в&nbsp;PDF, как в&nbsp;разделе <a href="#sudop-1">«Справка из&nbsp;SUDOP»</a>&nbsp;– раздел Д1.</li></ol><figure class="shot"><img src="img/zalaczniki-a-0.webp?v=5.11" alt="Приложения: пусто – экран 1" loading="lazy"><figcaption><b>Шаг 9:</b> поле загрузки пустое&nbsp;– так и&nbsp;должно быть при первой подаче; жмём <span lang="pl">«Dalej»</span>.</figcaption></figure></div>
+  <div class="body"><h2>Приложения: ничего не&nbsp;прикрепляем</h2><p class="screen">Экран в&nbsp;eZUS: <span lang="pl">«Załączniki»</span> – раздел приложений</p><p class="lead">Первая подача: помощь de&nbsp;minimis раньше не&nbsp;получали, значит прикладывать нечего. Пустой список файлов&nbsp;– это норма, а&nbsp;не&nbsp;ошибка.</p><ol class="do"><li>В&nbsp;разделе <span lang="pl">«Załączniki»</span> ничего не&nbsp;выбираем и&nbsp;не&nbsp;загружаем.</li><li>Проверяем, что поле файла осталось пустым.</li><li>Нажимаем <span lang="pl">«Dalej»</span>&nbsp;– раздел пропускается.</li><li>Если система напишет, что файл обязателен,&nbsp;– прикладываем справку SUDOP в&nbsp;PDF, как в&nbsp;разделе <a href="#sudop-1">«Справка из&nbsp;SUDOP»</a>&nbsp;– раздел Д1.</li></ol><figure class="shot"><img src="img/zalaczniki-a-0.webp?v=5.20" alt="Приложения: пусто – экран 1" loading="lazy"><figcaption><b>Шаг 9:</b> поле загрузки пустое&nbsp;– так и&nbsp;должно быть при первой подаче; жмём <span lang="pl">«Dalej»</span>.</figcaption></figure></div>
 </section><section class="step" id="podsumowanie" data-id="podsumowanie" data-r="first repeat">
   <div class="num" aria-hidden="true">10</div>
-  <div class="body"><h2>Итог</h2><p class="screen">Экран в&nbsp;eZUS: <span lang="pl">«Podsumowanie»</span></p><p class="lead">Всё заявление на&nbsp;одном экране&nbsp;– читаем и&nbsp;отправляем.</p><ol class="do"><li>Проверить месяц и&nbsp;данные.</li><li>Нажать <span lang="pl">«Podpisz i wyślij»</span>.</li></ol><figure class="shot" data-only="repeat"><img src="img/podsumowanie-0.webp?v=5.11" alt="Итог&nbsp;– экран 1" loading="lazy"><figcaption><b>Шаг 10:</b> под&nbsp;сводкой&nbsp;– дата (<span lang="pl">«Data: 24.10.2026»</span>) и&nbsp;кнопки <span lang="pl">«Wstecz»</span>, <span lang="pl">«Podpisz i&nbsp;wyślij»</span>.</figcaption></figure><p class="note" data-only="first">Для первой подачи сводка выглядит так&nbsp;же, только в&nbsp;<span lang="pl">«Załączniki»</span> пусто.</p></div>
+  <div class="body"><h2>Итог</h2><p class="screen">Экран в&nbsp;eZUS: <span lang="pl">«Podsumowanie»</span></p><p class="lead">Всё заявление на&nbsp;одном экране&nbsp;– читаем и&nbsp;отправляем.</p><ol class="do"><li>Проверить месяц и&nbsp;данные.</li><li>Нажать <span lang="pl">«Podpisz i wyślij»</span>.</li></ol><figure class="shot" data-only="repeat"><img src="img/podsumowanie-0.webp?v=5.20" alt="Итог&nbsp;– экран 1" loading="lazy"><figcaption><b>Шаг 10:</b> под&nbsp;сводкой&nbsp;– дата (<span lang="pl">«Data: 24.10.2026»</span>) и&nbsp;кнопки <span lang="pl">«Wstecz»</span>, <span lang="pl">«Podpisz i&nbsp;wyślij»</span>.</figcaption></figure><p class="note" data-only="first">Для первой подачи сводка выглядит так&nbsp;же, только в&nbsp;<span lang="pl">«Załączniki»</span> пусто.</p></div>
 </section><section class="step" id="podpis" data-id="podpis" data-r="first repeat">
   <div class="num" aria-hidden="true">11</div>
-  <div class="body"><h2>Подпись и&nbsp;UPO</h2><p class="screen">Экран в&nbsp;eZUS: <span lang="pl">«Podpis i UPO»</span></p><p class="lead">Подпись и&nbsp;подтверждение, что заявление ушло.</p><ol class="do"><li>Подписать через Profil Zaufany.</li><li>Скачать UPO и&nbsp;сохранить.</li></ol><figure class="shot narrow"><img src="img/podpis-0.webp?v=5.11" alt="Подпись и&nbsp;UPO&nbsp;– экран 1" loading="lazy"><figcaption><b>Шаг 11:</b> в&nbsp;окне <span lang="pl">«Wybierz metodę podpisu»</span> отмечаем <span lang="pl">«podpisem zaufanym (PZ)»</span> и&nbsp;жмём <span lang="pl">«Podpisz»</span>.</figcaption></figure></div>
+  <div class="body"><h2>Подпись и&nbsp;UPO</h2><p class="screen">Экран в&nbsp;eZUS: <span lang="pl">«Podpis i UPO»</span></p><p class="lead">Подпись и&nbsp;подтверждение, что заявление ушло.</p><ol class="do"><li>Подписать через Profil Zaufany.</li><li>Скачать UPO и&nbsp;сохранить.</li></ol><figure class="shot narrow"><img src="img/podpis-0.webp?v=5.20" alt="Подпись и&nbsp;UPO&nbsp;– экран 1" loading="lazy"><figcaption><b>Шаг 11:</b> в&nbsp;окне <span lang="pl">«Wybierz metodę podpisu»</span> отмечаем <span lang="pl">«podpisem zaufanym (PZ)»</span> и&nbsp;жмём <span lang="pl">«Podpisz»</span>.</figcaption></figure></div>
 </section>
 <section class="step pre" id="sudop-1" data-id="sudop-1" data-r="repeat">
   <div class="num" aria-hidden="true">Д1</div>
-  <div class="body"><h2>Справка из&nbsp;SUDOP</h2><div class="note" style="border-left:3px solid #C69B3C"><p><b>Статус на октябрь 2026:</b> при повторной подаче справка из SUDOP не требуется. Она нужна затем, чтобы узнать сумму уже полученной помощи: эту сумму вписываем на шаге 5.</p></div><p class="screen">Экран в&nbsp;SUDOP: <span lang="pl">«Wyszukiwanie podmiotu»</span></p><p class="lead">Нужна тем, кто уже получал помощь de minimis.</p><ol class="do"><li>Открыть поиск по&nbsp;NIP: <a href="https://sudop.uokik.gov.pl/search/aidBeneficiary" target="_blank" rel="noopener">sudop.uokik.gov.pl/search/aidBeneficiary</a></li><li>Ввести NIP и&nbsp;нажать <span lang="pl">«Pobierz nazwę»</span>.</li><li>Отметить <span lang="pl">«tylko de&nbsp;minimis»</span> и&nbsp;период 3&nbsp;года&nbsp;– кнопка <span lang="pl">«3 lata wstecz»</span> подставит даты, галочку ставим сами.</li><li>Нажать <span lang="pl">«Wyszukaj według wybranych kryteriów»</span>&nbsp;– откроется список случаев помощи.</li></ol><figure class="shot"><img src="img/sudop-1-0.webp?v=5.11" alt="Справка из&nbsp;SUDOP&nbsp;– экран 1" loading="lazy"><figcaption><b>Д1.1:</b> поиск по&nbsp;NIP&nbsp;– вводим свой NIP и&nbsp;жмем <span lang="pl">«Pobierz nazwę»</span>.</figcaption></figure><figure class="shot"><img src="img/sudop-1-1.webp?v=5.11" alt="Справка из&nbsp;SUDOP&nbsp;– экран 2" loading="lazy"><figcaption><b>Д1.2:</b> готовый отчёт «LISTA PRZYPADKÓW POMOCY PUBLICZNEJ OTRZYMANEJ PRZEZ BENEFICJENTA»&nbsp;– период в&nbsp;<span lang="pl">«Zakres»</span> и&nbsp;дата генерации.</figcaption></figure></div>
+  <div class="body"><h2>Справка из&nbsp;SUDOP</h2><div class="note" style="border-left:3px solid #C69B3C"><p><b>Статус на октябрь 2026:</b> при повторной подаче справка из SUDOP не требуется. Она нужна затем, чтобы узнать сумму уже полученной помощи: эту сумму вписываем на шаге 5.</p></div><p class="screen">Экран в&nbsp;SUDOP: <span lang="pl">«Wyszukiwanie podmiotu»</span></p><p class="lead">Нужна тем, кто уже получал помощь de minimis.</p><ol class="do"><li>Открыть поиск по&nbsp;NIP: <a href="https://sudop.uokik.gov.pl/search/aidBeneficiary" target="_blank" rel="noopener">sudop.uokik.gov.pl/search/aidBeneficiary</a></li><li>Ввести NIP и&nbsp;нажать <span lang="pl">«Pobierz nazwę»</span>.</li><li>Отметить <span lang="pl">«tylko de&nbsp;minimis»</span> и&nbsp;период 3&nbsp;года&nbsp;– кнопка <span lang="pl">«3 lata wstecz»</span> подставит даты, галочку ставим сами.</li><li>Нажать <span lang="pl">«Wyszukaj według wybranych kryteriów»</span>&nbsp;– откроется список случаев помощи.</li></ol><figure class="shot"><img src="img/sudop-1-0.webp?v=5.20" alt="Справка из&nbsp;SUDOP&nbsp;– экран 1" loading="lazy"><figcaption><b>Д1.1:</b> поиск по&nbsp;NIP&nbsp;– вводим свой NIP и&nbsp;жмем <span lang="pl">«Pobierz nazwę»</span>.</figcaption></figure><figure class="shot"><img src="img/sudop-1-1.webp?v=5.20" alt="Справка из&nbsp;SUDOP&nbsp;– экран 2" loading="lazy"><figcaption><b>Д1.2:</b> готовый отчёт «LISTA PRZYPADKÓW POMOCY PUBLICZNEJ OTRZYMANEJ PRZEZ BENEFICJENTA»&nbsp;– период в&nbsp;<span lang="pl">«Zakres»</span> и&nbsp;дата генерации.</figcaption></figure></div>
 </section>
 <section class="step pre" id="sudop-2" data-id="sudop-2" data-r="repeat">
   <div class="num" aria-hidden="true">Д2</div>
-  <div class="body"><h2>отчет в&nbsp;PDF</h2><p class="screen">Экран в&nbsp;SUDOP: <span lang="pl">«Wyniki wyszukiwania»</span></p><p class="lead">Этот отчёт в&nbsp;приложения не&nbsp;идёт&nbsp;– из&nbsp;него берём только сумму помощи.</p><ol class="do"><li>Сверить <span lang="pl">«Zakres»</span>: три года и&nbsp;сегодняшняя дата генерации.</li><li>Внизу отчёта&nbsp;– <span lang="pl">«Podsumowanie»</span> с&nbsp;суммой помощи: её и&nbsp;вписываем в&nbsp;форму.</li><li>Сохранить файл в&nbsp;PDF себе&nbsp;– понадобится, если ZUS попросит подтверждение сумм.</li></ol><figure class="shot"><img src="img/sudop-2-0.webp?v=5.11" alt="отчет в&nbsp;PDF&nbsp;– экран 1" loading="lazy"><figcaption><b>Д2:</b> в&nbsp;таблице колонка <span lang="pl">«Wartość pomocy brutto [EURO]»</span>&nbsp;– 95,88, 104,59, 200,47; внизу отчёта&nbsp;– общая сумма помощи.</figcaption></figure></div>
+  <div class="body"><h2>отчет в&nbsp;PDF</h2><p class="screen">Экран в&nbsp;SUDOP: <span lang="pl">«Wyniki wyszukiwania»</span></p><p class="lead">Этот отчёт в&nbsp;приложения не&nbsp;идёт&nbsp;– из&nbsp;него берём только сумму помощи.</p><ol class="do"><li>Сверить <span lang="pl">«Zakres»</span>: три года и&nbsp;сегодняшняя дата генерации.</li><li>Внизу отчёта&nbsp;– <span lang="pl">«Podsumowanie»</span> с&nbsp;суммой помощи: её и&nbsp;вписываем в&nbsp;форму.</li><li>Сохранить файл в&nbsp;PDF себе&nbsp;– понадобится, если ZUS попросит подтверждение сумм.</li></ol><figure class="shot"><img src="img/sudop-2-0.webp?v=5.20" alt="отчет в&nbsp;PDF&nbsp;– экран 1" loading="lazy"><figcaption><b>Д2:</b> в&nbsp;таблице колонка <span lang="pl">«Wartość pomocy brutto [EURO]»</span>&nbsp;– 95,88, 104,59, 200,47; внизу отчёта&nbsp;– общая сумма помощи.</figcaption></figure></div>
 </section>
 
 <div class="note">
@@ -370,7 +370,7 @@ section.step,section.step.pre{scroll-margin-top:120px}
   <div class="foot-in">
   <div><p><b>Arkkona Biuro</b></p><p><a href="https://arkkonabiuro.pl">arkkonabiuro.pl</a></p></div>
   <div><p>Подать за&nbsp;Вас: <a href="https://t.me/ArkkonaBiuroBot?start=zayavka">@ArkkonaBiuroBot</a></p><p>Вопрос: <a class="tg-link" href="https://t.me/KorneVa_OK"><svg class="tgi" viewBox="0 0 24 24" width="16" height="16" aria-hidden="true" focusable="false"><path fill="#229ED9" d="M12 0a12 12 0 1 0 0 24 12 12 0 0 0 0-24zm5.6 8.2-1.9 9c-.1.6-.5.8-1 .5l-2.8-2-1.3 1.3c-.1.2-.3.3-.6.3l.2-2.9 5.3-4.8c.2-.2 0-.3-.4-.1l-6.6 4.1-2.8-.9c-.6-.2-.6-.6.1-.9l11-4.3c.5-.2 1 .1.8.7z"/></svg>@KorneVa_OK</a></p></div>
-  <small>Инструкция подготовлена для клиентов бюро и&nbsp;не&nbsp;является официальным документом ZUS. Официальные правила&nbsp;– на&nbsp;<a href="https://www.zus.pl/" target="_blank" rel="noopener">zus.pl</a>. Версия 5.19 · 28.10.2026.</small>
+  <small>Инструкция подготовлена для клиентов бюро и&nbsp;не&nbsp;является официальным документом ZUS. Официальные правила&nbsp;– на&nbsp;<a href="https://www.zus.pl/" target="_blank" rel="noopener">zus.pl</a>. Версия 5.20 · 28.10.2026.</small>
 </div></footer>
 <style>
 .ctafloat{position:fixed;left:0;right:0;bottom:0;z-index:36;background:#0E1B2C;border-top:1px solid #C69B3C;padding:10px 14px;display:flex;align-items:center;gap:14px;justify-content:center;transform:translateY(130%);transition:transform .35s ease;box-shadow:0 -8px 24px rgba(0,0,0,.35)}
